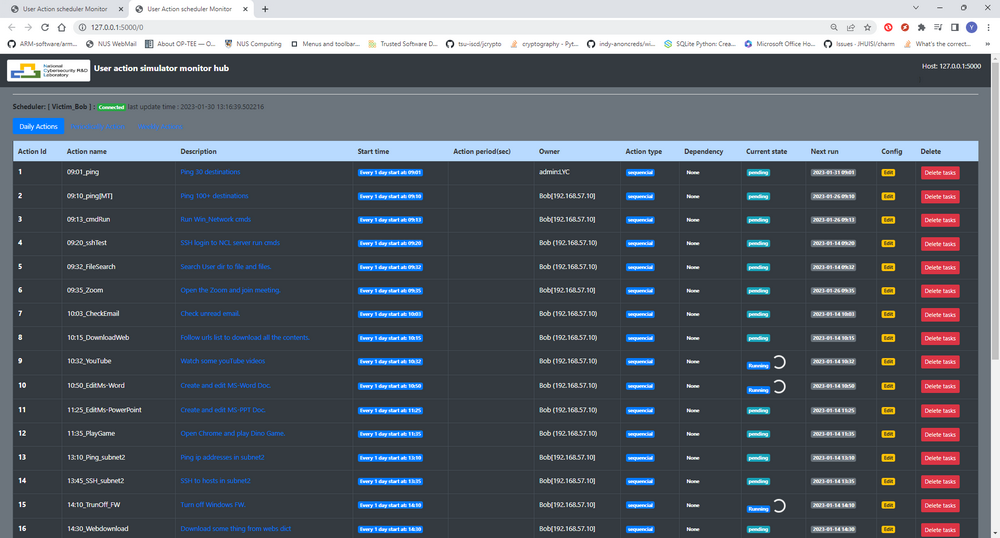
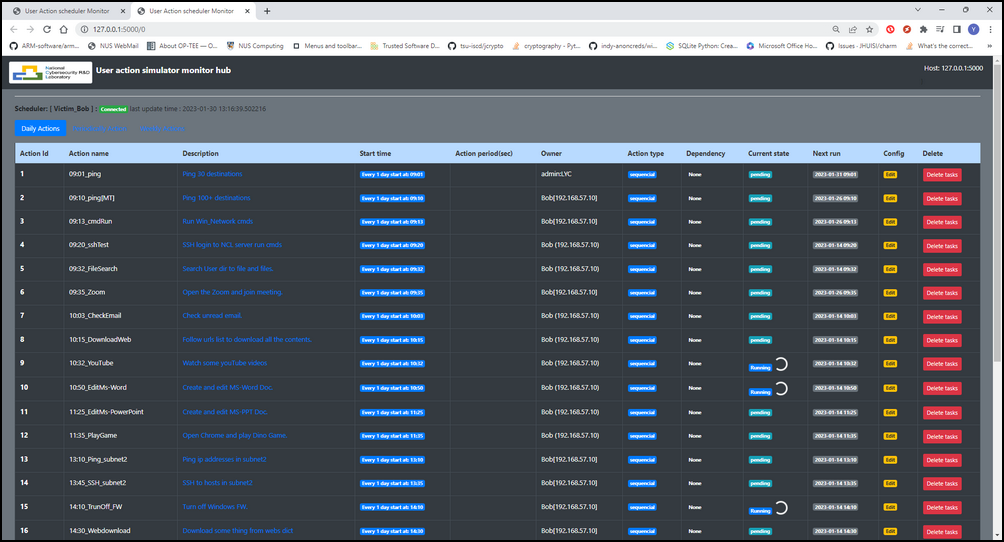
update the design document.

diff --git a/README.md b/README.md
@@ -221,7 +221,9 @@ Different attacker profiles can represent human hackers, automated attack tools,
 
 ### 3. Design of Activities Generation Modules Repository
 
-The **Activities Generation Modules Repository** provides an extensible collection of reusable plugin modules that generate both benign and malicious activities across multiple layers of a computing environment. The repository follows a plugin-based architecture, allowing new activity modules to be developed and integrated independently without modifying the core emulator. Each plugin encapsulates a specific activity or behavior and can be combined with other plugins through user-defined playbooks to construct complex, repeatable workflows.
+The **Activities Generation Modules Repository** provides an extensible collection of reusable plugin modules that generate both benign and malicious activities across multiple layers of a computing environment. The repository follows a plugin-based architecture, allowing new activity modules to be developed and integrated independently without modifying the core emulator. Each plugin encapsulates a specific activity or behavior and can be combined with other plugins through user-defined playbooks to construct complex, repeatable workflows. The system components diagram is shown below:
+
+![](doc/img/s_03.png)
 
 Typical activities supported by the repository include:
 
@@ -386,23 +388,59 @@ By offering these hierarchical levels of components, the User Actor Emulator pro
 
 ------
 
-#### Design of System Orchestrator
+### 5. Design of System Orchestrator
 
-The System Orchestrator is a cloud-based server that aggregates all User Action Emulator task execution states and offers a management website interface for users to monitor and manage the User Action Emulators. The Orchestrator provides two distinct web interfaces:
+The **System Orchestrator** is the centralized management and coordination platform of the **Cluster User Emulation (CUE)** System. It is responsible for managing distributed **User Action Emulators**, collecting their execution status, coordinating task deployment, and providing operators with a unified web-based interface for monitoring and controlling cyber range activities.
 
-- **Emulator Procedure Management Interface**: This web dashboard displays comprehensive information about all connected emulators, including their current state and task details. Users can efficiently oversee the execution of tasks across multiple emulators from this interface.
-- **Malware Command and Control Interface**: This web dashboard presents the task execution states of all connected malware instances and offers a web API for the red team to dynamically control the malware. This interface empowers red team members with the flexibility to manage malware operations effectively in real-time.
+In addition to centralized monitoring, the Orchestrator also provides remote task management, enabling operators to start, stop, pause, or modify emulator activities without requiring direct access to the target machines. This centralized architecture greatly simplifies the administration of large-scale cyber exercises and ensures consistent execution across distributed environments. The System Orchestrator provides two primary web-based management interfaces:
 
- The emulator's task monitor Page/ tasks view is shown below:
+- Emulator Procedure Management Interface
+- Malware Command and Control (C2) Interface
+
+#### 5.1 Emulator Procedure Management Interface
+
+The Emulator Procedure Management Interface serves as the primary dashboard for monitoring and managing all connected User Action Emulators. The management UI is shown below: 
 
 ![](doc/img/RM_diagram_Monitor_page1.png)
 
-**Emulator’s action monitor web feature:** 
+Each emulator continuously uploads its execution status to the Orchestrator, allowing operators to observe the progress of scheduled tasks, verify emulator health, and identify failed or delayed activities. This centralized dashboard provides complete visibility into the execution state of the distributed emulation environment, making it especially valuable during cyber range exercises, penetration testing campaigns, and automated security validation.
 
-- User can monitor the scheduled actions(events) execution state from the monitor web.
-- User can remove/deactivate the action from the web. 
-- The web provide regular action (daily/weekly action) and random action monitoring. 
-- (Under development) user can add new action/edit the actions from the Web interface**.**
+The interface provides real-time information including:
+
+- Connected emulator status
+- Current execution state
+- Running and pending tasks
+- Scheduled activity timelines
+- Execution progress
+- Task completion status
+- System health information
+- Activity execution history
+
+#### 5.2 Malware Command and Control (C2) Interface
+
+In addition to managing benign user activities, the System Orchestrator also provides a dedicated Malware Command and Control (C2) Interface for offensive security exercises. The malware C2 UI is shown below: 
+
+![](doc/img/s_04.png)
+
+This interface monitors all active malware emulation instances and provides a secure Web API that allows authorized Red Team operators to dynamically control malware behaviors during cyber exercises.
+
+Typical management functions include:
+
+- Deploying malware playbooks
+- Starting and stopping malware execution
+- Triggering attack stages
+- Updating malware configurations
+- Monitoring malware execution status
+- Collecting execution reports
+- Coordinating multi-stage attack scenarios
+
+#### 5.3 Emulator Action Management Features
+
+The web-based management interface provides several operational features that simplify emulator administration and activity management.
+
+- **Real-time Activity Monitoring** :  Users can monitor the execution status of all scheduled activities in real time, including both one-time and recurring tasks.
+- **Task Lifecycle Management** : Users can deactivate or remove selected actions from the execution queue, enabling rapid adjustment of simulation scenarios during an exercise.
+- **Support for Multiple Scheduling Modes** : The dashboard distinguishes between recurring activities, such as daily or weekly office routines, and randomly generated background activities that emulate natural user behavior.
 
 > **The detail document link of  Scheduler Monitor Hub** [click [here](ReadMe_User_Actions_Emulator.md) ] 
 